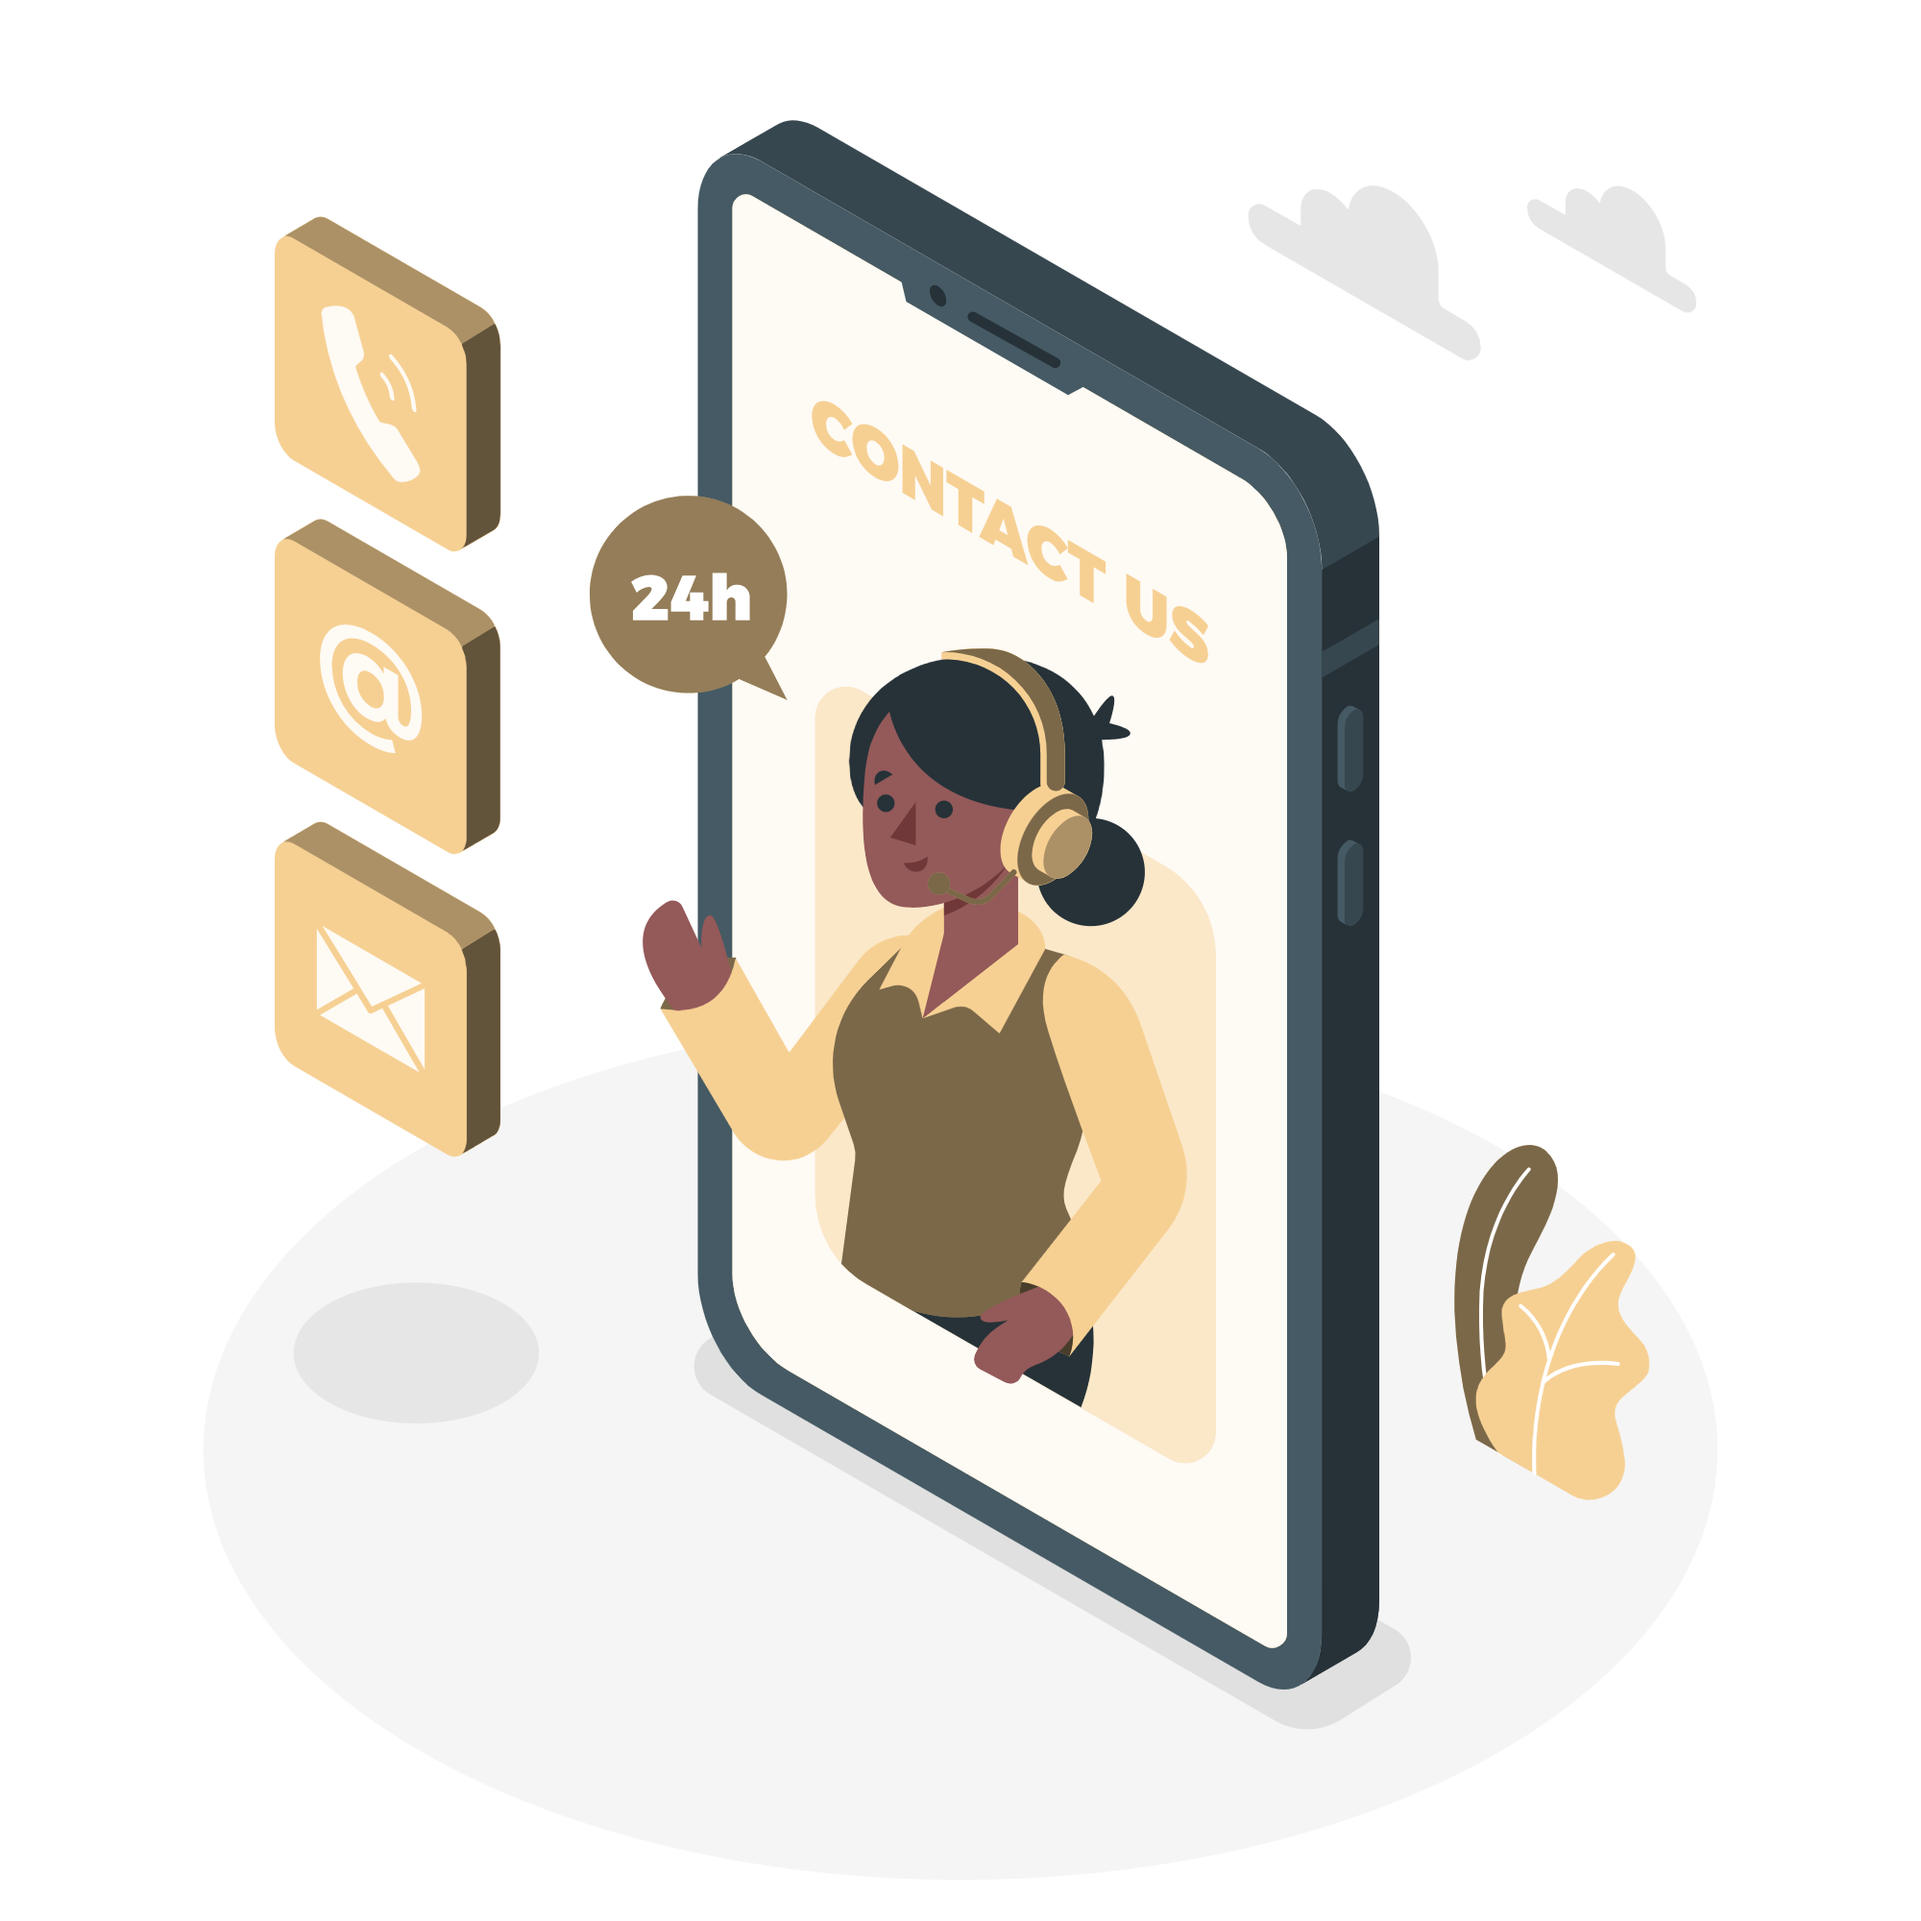
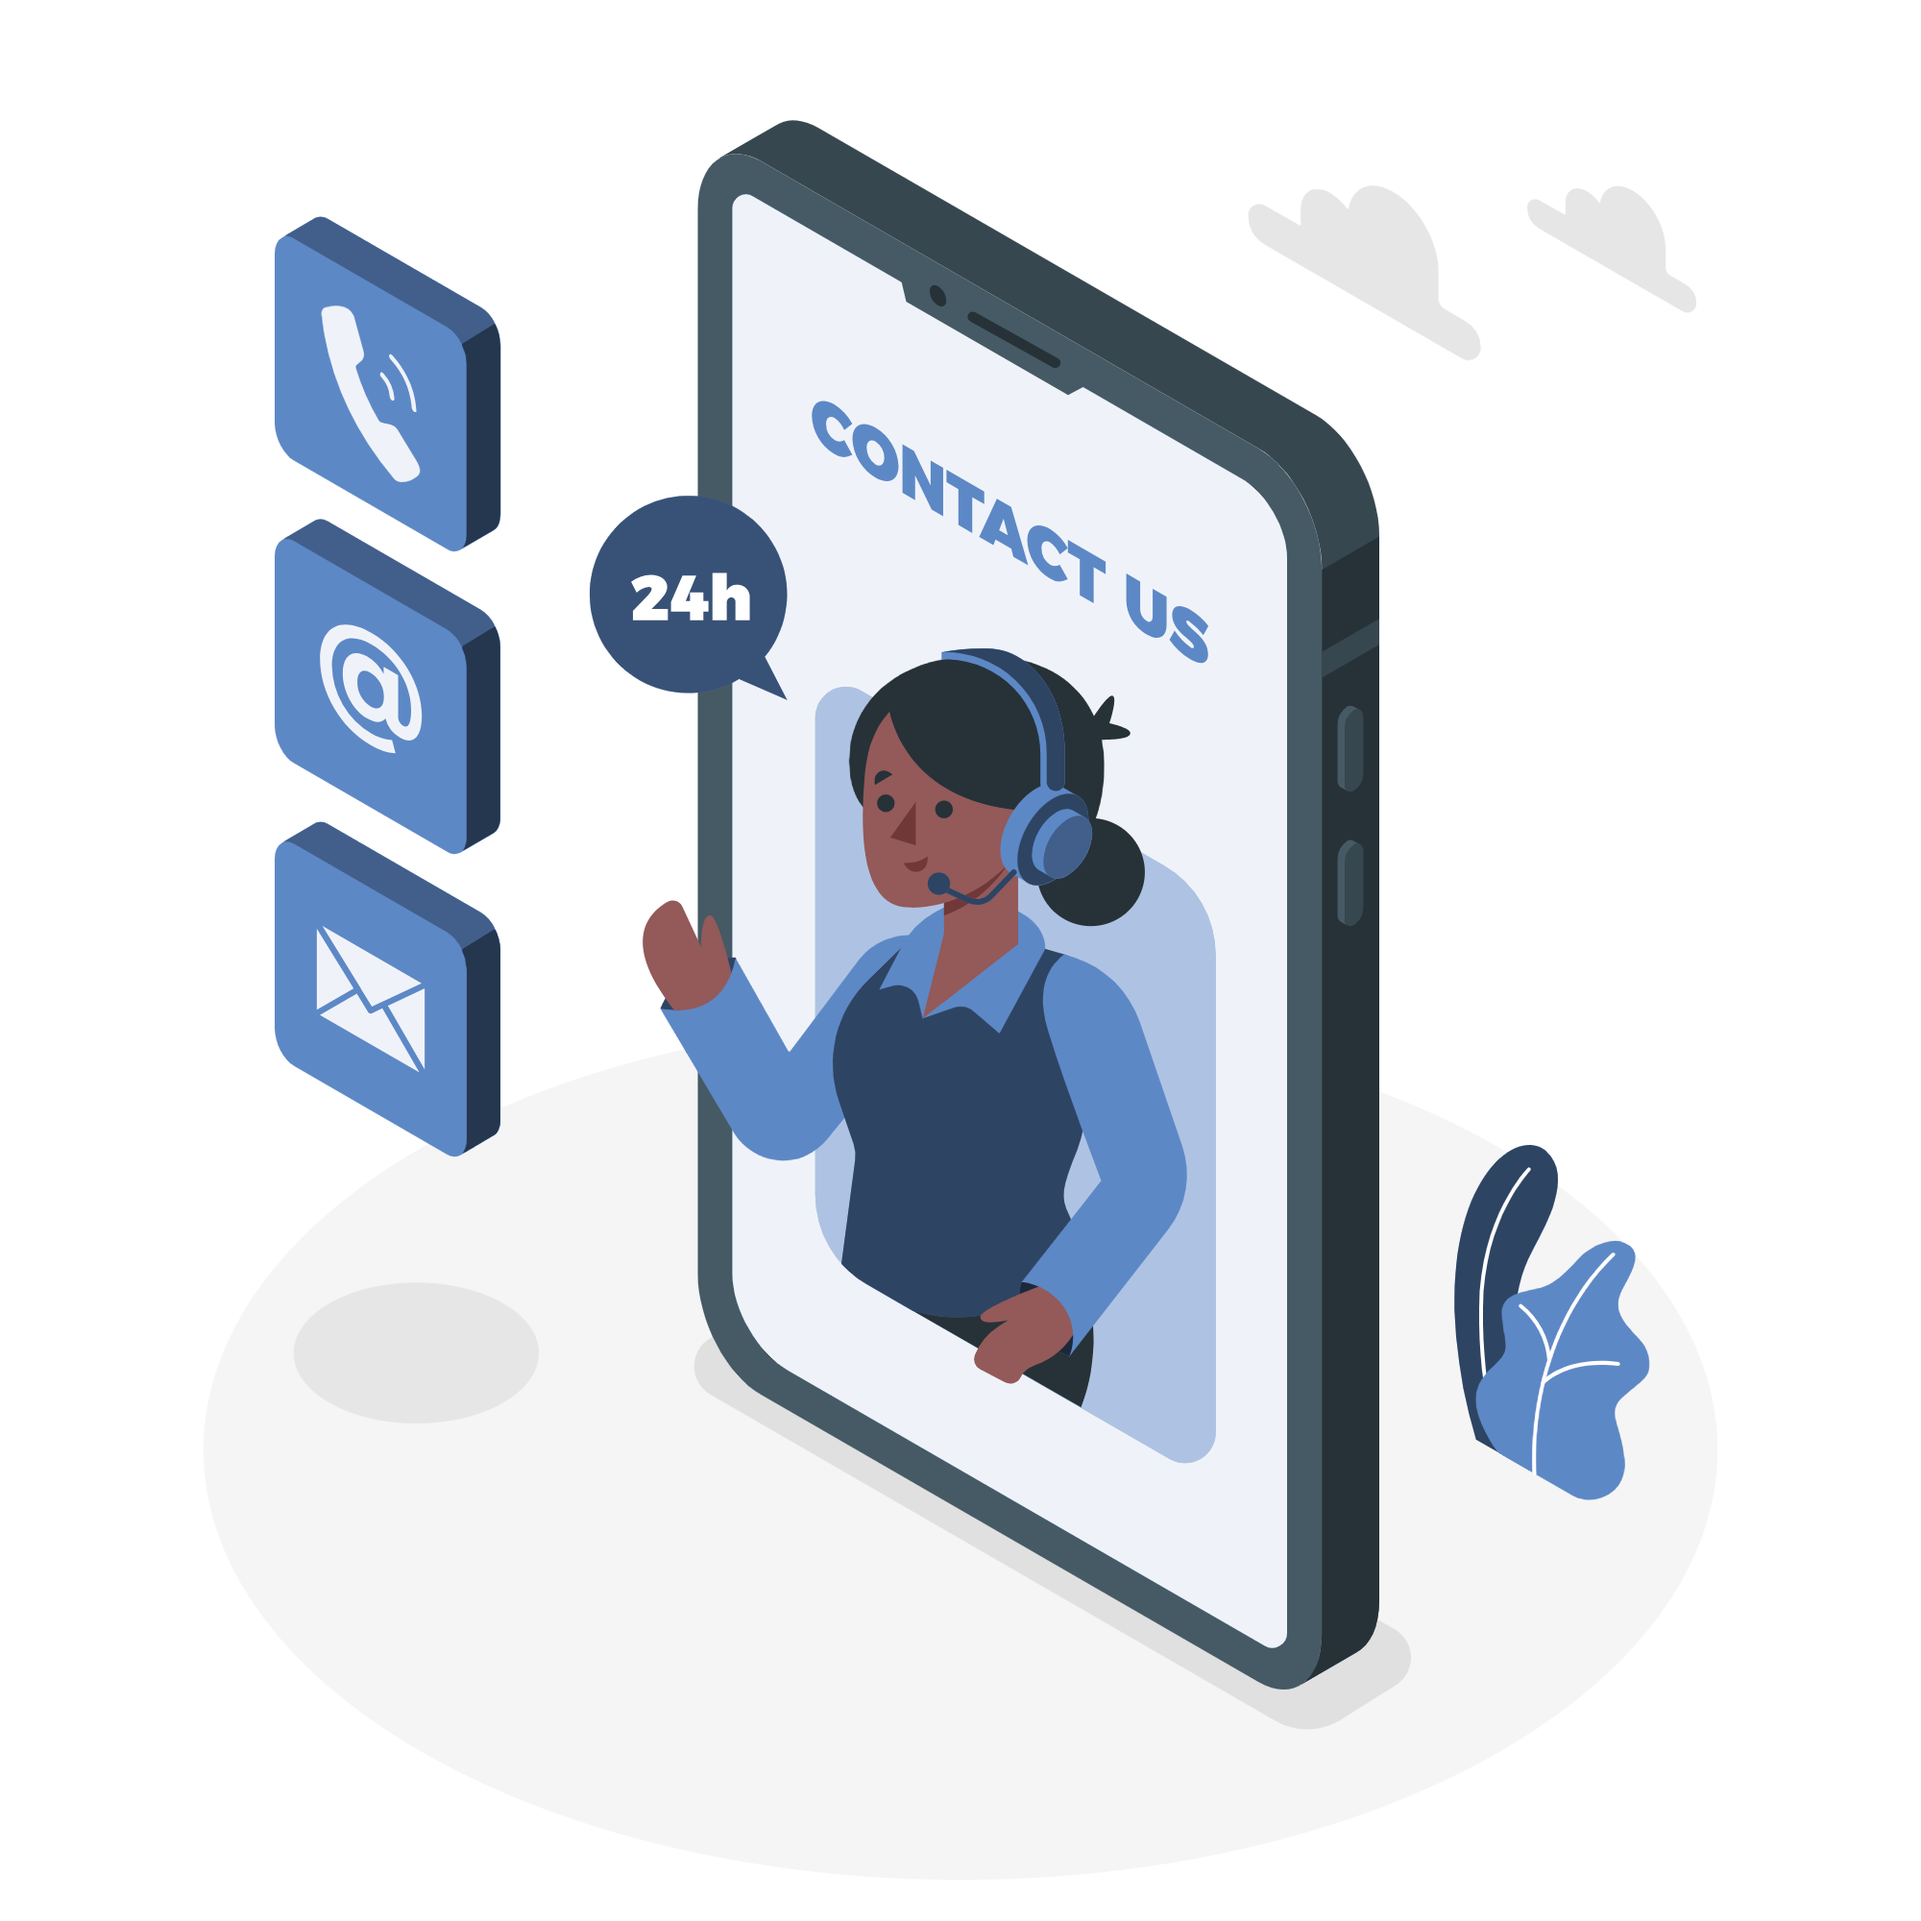
about and contact bg changed

diff --git a/app/globals.css b/app/globals.css
@@ -104,40 +104,39 @@ body {
   }
 }
 
-/* Default scrollbar for the website */
+/* Global scrollbar for light-blue background (#E9F3FF) */
 ::-webkit-scrollbar {
   width: 12px;
   height: 8px;
 }
 
 ::-webkit-scrollbar-track {
-  background: #f1f1f1;
+  background: #E9F3FF; /* Matches your background */
 }
 
 ::-webkit-scrollbar-thumb {
-  background: #f4d691 ;
+  background: #aac8e4; /* Soft mid-blue thumb */
   border-radius: 8px;
 }
 
 ::-webkit-scrollbar-thumb:hover {
-  background: #8c8c8c;
+  background: #7ba9d6; /* Darker for hover effect */
 }
 
-
-/* Custom scrollbar for specific elements (e.g., shadcn Card) */
+/* Custom scrollbar for specific scrollable components */
 .custom-scrollbar::-webkit-scrollbar {
   width: 10px;
 }
 
 .custom-scrollbar::-webkit-scrollbar-track {
-  background: white;
+  background: #E9F3FF;
 }
 
 .custom-scrollbar::-webkit-scrollbar-thumb {
-  background: linear-gradient(to bottom, black, gray, white);
+  background: linear-gradient(to bottom, #93bde9, #689ed4, #d6e9f9);
   border-radius: 6px;
 }
 
 .custom-scrollbar::-webkit-scrollbar-thumb:hover {
-  background: linear-gradient(to bottom, gray, black, white);
+  background: linear-gradient(to bottom, #689ed4, #4f89c3, #bdddf5);
 }

diff --git a/app/(common)/_components/Hero.tsx b/app/(common)/_components/Hero.tsx
@@ -23,7 +23,7 @@ export function Hero() {
           </FadeUp>
           <FadeUp delay={0.1}>
             <h1 className="text-4xl font-bold tracking-tight sm:text-5xl lg:text-6xl leading-tight">
-              Accessible Online Courses <br />{" "}
+              Online Courses <br />{" "}
               <span className="text-primary">For All</span>
             </h1>
           </FadeUp>

diff --git a/components/shared/Footer.tsx b/components/shared/Footer.tsx
@@ -20,7 +20,7 @@ const footerLinks = {
 
 export default function Footer() {
   return (
-    <footer className="border-t text-muted-foreground">
+    <footer className="border-t bg-[#E1EDF9] text-muted-foreground">
       <div className="container py-10">
         <div className="grid gap-8 md:grid-cols-2 lg:grid-cols-4">
           
